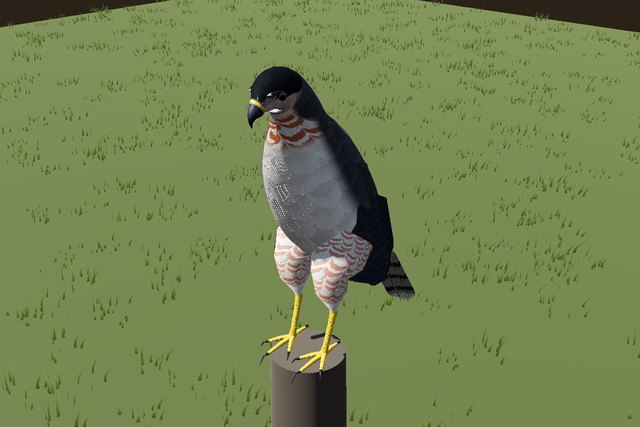
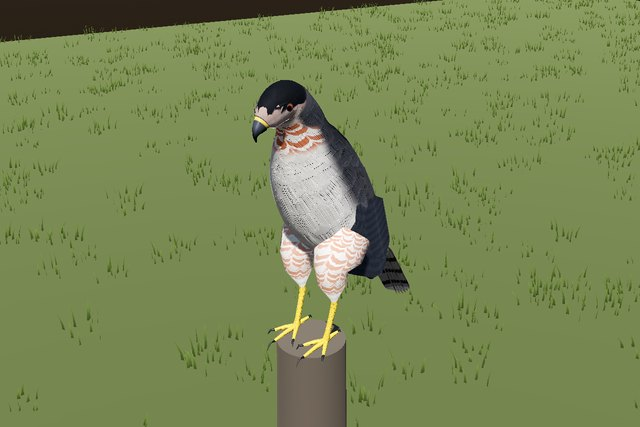
Birds' faces: the head tapering like a pear to a rounded end, the bill stuck onto it
The bill sat almost inside the round of the head, so the face had no room to
taper: a round head, a pinched waist and a flat-faced bill base wider than the
face behind it. Now the bill (its lower half, its jaw, a raptor's cere, a
turkey's snood) is set a little forward (snout), the face's rings laid out
evenly from its fullest at the eyes to a rounded end a little wider than the
bill's root (face_bulb), and the bill comes out of that end; the lower bill's
heel tucked into it, no blunt open end under the bill. The turkey and the
goose take it too. Its bill tip, for pecking, moved with it.

diff --git a/README.md b/README.md
@@ -1149,7 +1149,9 @@ At dusk (the global night, or D: court) the males
   to the skin there till only a cap shows, its rim the lids', `orbital` a bare ring's colour: a falcon's yellow), the
   iris and pupil filling what shows; a raptor's brow a low ridge over the eye; the bill horn grained along and across,
   its ridge worn paler, the line of its mouth in shade, nostrils (`nostril`), a root of its own colour (`bill_base`),
-  matt or glossy (`bill_gloss`); the plumage's colour edges ragged by the feathers along them (`edge_rag`, `hood_soft`).
+  matt or glossy (`bill_gloss`); the plumage's colour edges ragged by the feathers along them (`edge_rag`, `hood_soft`). The face (`face_taper`): the
+  bill set a little forward of the round of the head (`snout`), the face tapering to it like a pear to a rounded end a
+  little wider than the bill's root (`face_bulb`), the bill stuck onto that end; the lower bill's heel tucked into it.
   `raptor.gd` (`Raptor`): birds of prey on the same body (the shader's raptor plumage: the cap, a falcon's hood and
   moustache, cheeks, the back's feathers edged pale, the underparts barred, spotted, rufous-barred or streaked, barred
   flight feathers, a banded tail; yellow cere, eye ring and feet; hooked bills, talons). Stood upright on a perch,
